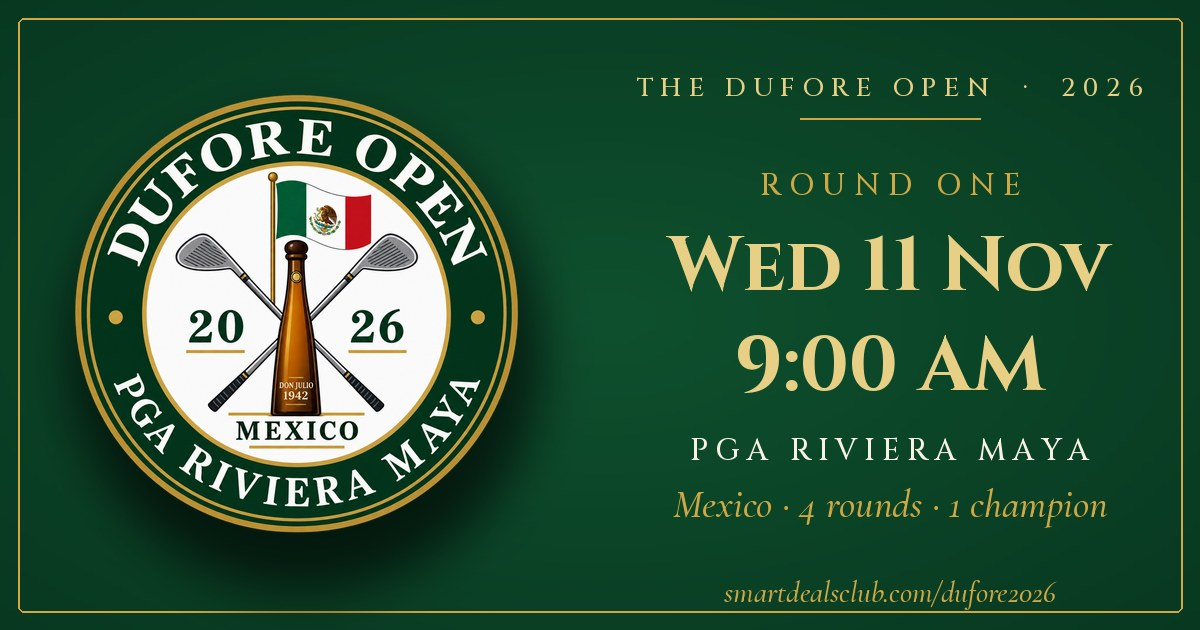
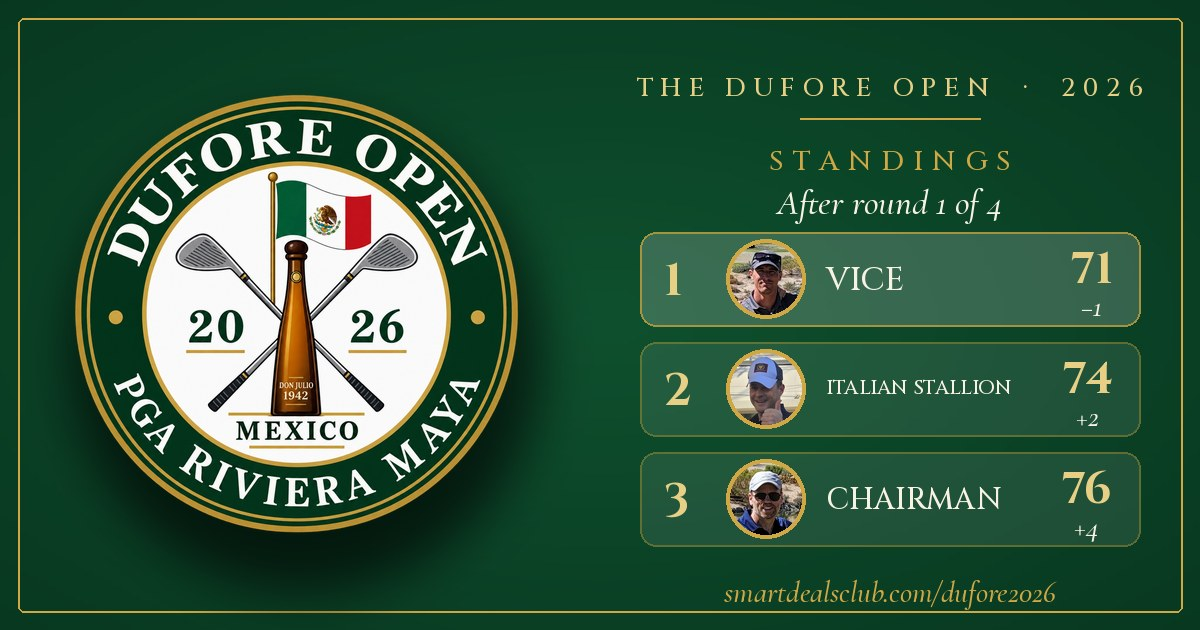
Dufore Open: round 1 results (first group) (#35)
* Add Dufore Open 2026 teaser page with countdown

Claude-Session: https://claude.ai/code/session_01PxtoKeknrPEQGS1ZPt4kTL

* Teaser: add round one tee times and coming-soon icons

Claude-Session: https://claude.ai/code/session_01PxtoKeknrPEQGS1ZPt4kTL

* Teaser: frame spans full page height

Claude-Session: https://claude.ai/code/session_01PxtoKeknrPEQGS1ZPt4kTL

* Teaser: add tee time groups

Claude-Session: https://claude.ai/code/session_01PxtoKeknrPEQGS1ZPt4kTL

* Teaser: add PGA Riviera Maya venue logo

Claude-Session: https://claude.ai/code/session_01PxtoKeknrPEQGS1ZPt4kTL

* Teaser: drop duplicate venue text under logo

Claude-Session: https://claude.ai/code/session_01PxtoKeknrPEQGS1ZPt4kTL

* Teaser: remove round one eyebrow, add 4 rounds line

Claude-Session: https://claude.ai/code/session_01PxtoKeknrPEQGS1ZPt4kTL

* Teaser: add honorary starters portraits and handicap cards

Claude-Session: https://claude.ai/code/session_01PxtoKeknrPEQGS1ZPt4kTL

* Teaser: add The Cook and The BirdWatcher portraits

Claude-Session: https://claude.ai/code/session_01PxtoKeknrPEQGS1ZPt4kTL

* Teaser: add The Sleeper portrait

Claude-Session: https://claude.ai/code/session_01PxtoKeknrPEQGS1ZPt4kTL

* Teaser: add Italian Stallion to honorary starters

Claude-Session: https://claude.ai/code/session_01PxtoKeknrPEQGS1ZPt4kTL

* Dufore Open: standings, field, scoring rules and score data file

Claude-Session: https://claude.ai/code/session_01PxtoKeknrPEQGS1ZPt4kTL
[…]

Changed region(s): [[0.5242, 0.2413, 0.9558, 0.8746]]

diff --git a/dufore2026/index.html b/dufore2026/index.html
@@ -14,10 +14,10 @@
 <meta property="og:url" content="https://smartdealsclub.com/dufore2026/">
 <meta property="og:image:width" content="1200">
 <meta property="og:image:height" content="630">
-<meta name="twitter:image" content="https://smartdealsclub.com/dufore2026/share.jpg?v=163a774b">
+<meta name="twitter:image" content="https://smartdealsclub.com/dufore2026/share.jpg?v=05101085">
 <meta property="og:title" content="Dufore Open 2026">
 <meta property="og:description" content="Something's brewing at PGA Riviera Maya. Tee off tomorrow, 9:00 AM.">
-<meta property="og:image" content="https://smartdealsclub.com/dufore2026/share.jpg?v=163a774b">
+<meta property="og:image" content="https://smartdealsclub.com/dufore2026/share.jpg?v=05101085">
 <meta property="og:type" content="website">
 <meta name="twitter:card" content="summary_large_image">
 <link rel="icon" type="image/png" href="favicon.png">
@@ -730,6 +730,8 @@ tick();
       var r={p:p,net:[],gross:[],bonus:[],thru:[],total:0,done:0};
       rounds.forEach(function(k){
         var h=(D.rounds[k]||{})[p.id];
+        var tg=((D.totals||{})[k]||{})[p.id];
+        if((!h||!h.length)&&tg!=null){var bo2=((D.bonus||{})[k]||{})[p.id]||0;r.gross.push(tg);r.bonus[rounds.indexOf(k)]=bo2;r.net.push(tg-p.hcp-bo2);r.thru.push(18);r.total+=tg-p.hcp-bo2;r.done++;return}
         if(!h||!h.length){r.net.push(null);r.gross.push(null);r.thru.push(0);return}
         var g=0;h.forEach(function(x,i){g+=Math.min(x,par[i]+cap)});
         r.thru.push(h.length);
@@ -909,7 +911,7 @@ tick();
     var html='<div class="sh-h"><div class="ph"><img src="'+esc(p.photo)+'" alt="" width="240" height="240"></div><div><div class="sh-n">'+esc(p.name)+marks(p)+'</div><div class="sh-m">HCP '+p.hcp+' \u00b7 '+(p.hand==="Left"?"Left-handed":"Right-handed")+'</div></div></div>'+badges(p)+
       '<div class="sh-s"><div><b>'+(X.pos[p.id]||"\u2013")+'</b><span>Position</span></div><div><b>'+(r.done?r.total:"\u2013")+'</b><span>Net total</span></div><div><b>'+(dl==null?"\u2013":fmt(dl))+'</b><span>To par</span></div></div>'+
       '<table class="sh-t"><thead><tr><th>Round</th><th>Gross</th><th>Bonus</th><th>Net</th><th>Pos</th></tr></thead><tbody>'+rows+'</tbody></table>'+
-      (cards?'<div class="sh-k">Scorecards</div>'+cards:'<p class="sh-e">Scorecards appear here after round one.</p>');
+      (cards?'<div class="sh-k">Scorecards</div>'+cards:'<p class="sh-e">'+(r.done?'Round totals only, no hole-by-hole scorecard recorded.':'Scorecards appear here after round one.')+'</p>');
     showSheet(html);
   }
   document.getElementById("board").addEventListener("click",function(e){var r=e.target.closest(".row:not(.head)");if(r)openSheet(r.dataset.id)});

diff --git a/dufore2026/tools/make_share.py b/dufore2026/tools/make_share.py
@@ -45,7 +45,11 @@ for p in d["players"]:
     nets, done = [], 0
     for k in ("1", "2", "3", "4"):
         h = d["rounds"].get(k, {}).get(p["id"])
-        if h and len(h) >= 18:
+        tg = d.get("totals", {}).get(k, {}).get(p["id"])
+        if tg is not None and not h:
+            nets.append(tg - p["hcp"] - d.get("bonus", {}).get(k, {}).get(p["id"], 0))
+            done += 1
+        elif h and len(h) >= 18:
             g = sum(min(x, par[i] + cap) for i, x in enumerate(h))
             nets.append(g - p["hcp"] - d.get("bonus", {}).get(k, {}).get(p["id"], 0))
             done += 1
@@ -145,7 +149,11 @@ else:
             im.paste(ph, (X + 90, rowy + 11), m)
         except Exception:
             pass
-        dr.text((X + 186, rowy + 26), r["p"]["name"].upper(), font=font("cinzel", 32), fill=CREAM)
+        nm = r["p"]["name"].upper()
+        nsz = 32
+        while nsz > 20 and dr.textlength(nm, font=font("cinzel", nsz)) > (W - 60 - 28 - 110) - (X + 186):
+            nsz -= 2
+        dr.text((X + 186, rowy + 26 + (32 - nsz) // 2), nm, font=font("cinzel", nsz), fill=CREAM)
         tot = str(r["total"])
         vs = r["total"] - PAR * r["done"]
         vs = "E" if vs == 0 else ("+%d" % vs if vs > 0 else "−%d" % abs(vs))
